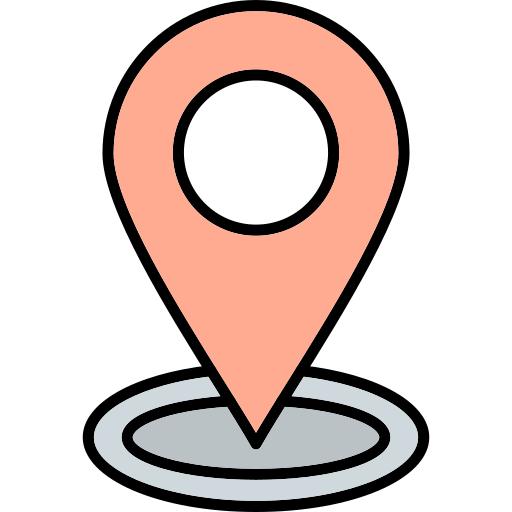
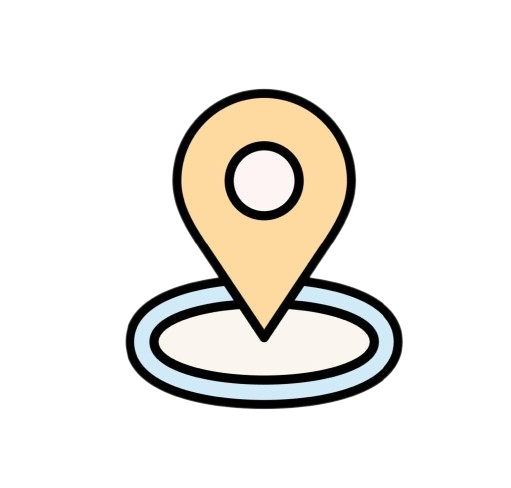
outras varias alterações

diff --git a/src/components/Login/index.jsx b/src/components/Login/index.jsx
@@ -15,6 +15,8 @@ function Login({nome,image,link,metadata,gratis}) {
 
   const [user, setUser] = useState("");
 
+  const navigateTo = useNavigate();
+
   useEffect(() => {
     const loggedInUser = localStorage.getItem("user");
     const loggedWallet = localStorage.getItem("wallet");
@@ -67,20 +69,24 @@ function Login({nome,image,link,metadata,gratis}) {
     <div>
       {
         user == ""  ? 
-        <>
-            <GoogleLogin
-            clientId={clientId}
-            buttonText="Login"
-            onSuccess={onSuccess}
-            onFailure={onFailure}
-            cookiePolicy={'single_host_origin'}
-            style={{ marginTop: '100px' }}
-            isSignedIn={true}
-            />
-            <br/>
-            OR
+        <>  
+            <button>
+              <GoogleLogin
+              clientId={clientId}
+              buttonText="Login"
+              onSuccess={onSuccess}
+              onFailure={onFailure}
+              cookiePolicy={'single_host_origin'}
+              isSignedIn={true}
+              theme="filled_black"
+              text="continue_with"
+              shape="circle"
+              />
+            </button>
             <br/><br/>
             <button onClick={connectWalletHandler}>CONNECT WALLET</button>
+            <br/><br/>
+            <button style={{backgroundColor:'#d9bb8d',width:'300px'}} onClick={() => navigateTo('/')}>CHECK OUT OUR SITE</button>
         </>
         :
         <div>

diff --git a/src/pages/City/index.jsx b/src/pages/City/index.jsx
@@ -2,16 +2,16 @@ import { SquarePurple } from "../../components/Square/style";
 import { CityContent } from "./style";
 import { useNavigate } from 'react-router-dom';
 import sun from "../../assets/sol.png";
-import cloud from "../../assets/nuvem.png";
+import ondas from "../../assets/ondas.png";
 import Login from "../../components/Login";
 
 function City({nome,pais,descricao,image,metadata,link,gratis}) {
 
-  const navigateTo = useNavigate({replace:true});
+  const navigateTo = useNavigate();
 
   return (
     <CityContent>
-      <p style={{cursor:'pointer'}} onClick={() => navigateTo('/',{ replace: true })}>SOULFUL</p>
+      <p style={{cursor:'pointer'}} onClick={() => navigateTo('/')}>SOULFUL</p>
       <main>
         <div className="content">
           <h1>
@@ -25,7 +25,7 @@ function City({nome,pais,descricao,image,metadata,link,gratis}) {
           <SquarePurple>
             <img src={image}/>
           </SquarePurple>
-          <img src={cloud} alt="nuvem" id="cloud" />
+          <img src={ondas} alt="nuvem" id="cloud" />
         </div>
       </main>
     </CityContent>

diff --git a/src/components/Dropdown/index.jsx b/src/components/Dropdown/index.jsx
@@ -1,6 +1,6 @@
 import React, { useState, useEffect } from "react";
 import { Button, Menu, MenuItem, Dialog, DialogActions, DialogContent, DialogTitle } from '@mui/material';
-import { getDoc, doc } from "firebase/firestore";
+import { getDoc, doc, updateDoc } from "firebase/firestore";
 import db from '../../database/firebase.config'
 import { BsPersonLinesFill, BsWallet2 } from "react-icons/bs";
 import { MdLogout } from "react-icons/md";
@@ -35,6 +35,16 @@ function ProfileDropdown({user,email}) {
             console.log(docSnap.data().minted)
             setMinted(docSnap.data().minted)
         }
+        // const docSnapGmail = await getDoc(doc(db, "wallets", email))
+
+        // let mintedNft = docSnapGmail.data().minted
+        // mintedNft.push({'image':'https://gateway.pinata.cloud/ipfs/Qmdn4C8nEU313bQKSXxMSburUNjKkGkqo4PaGPnwWJxNKp','nome':'Teste'})
+
+        // const docRef = doc(db, "wallets", email)
+        // const data = {
+        //     minted: mintedNft
+        // };
+        // updateDoc(docRef, data)
         setLoading(false);
     };
 

diff --git a/src/pages/Memorie/index.jsx b/src/pages/Memorie/index.jsx
@@ -48,21 +48,15 @@ function Memorie({nome,image,metadata,word}) {
       return
     } 
 
-    const wallets = await getDocs(collection(db, "wallets"));
-    let findWallet = 0
+    const docSnapWallet = await getDoc(doc(db, "wallets", gmail))
     let addressFound = ""
-    wallets.forEach((wallet) => {
-        if(wallet.id == userGmail){
-            addressFound = wallet.data().address
-            findWallet+=1
-        }
-    });
-    if(findWallet==0){
+    if(docSnapWallet.exists()){
+      addressFound = docSnapWallet.data().address
+    }else{
+      const wallet = ethers.Wallet.createRandom()
+      await db.collection('wallets').doc(gmail).set({address: wallet.address,privateKey: btoa(wallet.privateKey),minted:[]});
 
-        const wallet = ethers.Wallet.createRandom()
-        await db.collection('wallets').doc(gmail).set({address: wallet.address,privateKey: btoa(wallet.privateKey),minted:[]});
-
-        addressFound = wallet.address;
+      addressFound = wallet.address;
     }
 
     const docSnap = await getDoc(doc(db, "master-key", "key"))

diff --git a/src/components/Home/PgUnlockPassport/index.jsx b/src/components/Home/PgUnlockPassport/index.jsx
@@ -73,12 +73,12 @@ function PgUnlockPassport() {
             {user == "" ? (
               <GoogleLogin
                 clientId={clientId}
-                buttonText="Login"
                 onSuccess={onSuccess}
                 onFailure={onFailure}
                 cookiePolicy={"single_host_origin"}
-                style={{ marginTop: "100px" }}
-                isSignedIn={true}
+                theme="filled_black"
+                text="continue_with"
+                shape="circle"
               />
             ) : (
               <ProfileDropdown user={user} email={email}></ProfileDropdown>

diff --git a/index.html b/index.html
@@ -2,7 +2,7 @@
 <html lang="en">
   <head>
     <meta charset="UTF-8" />
-    <link rel="icon" type="image/svg+xml" href="/vite.svg" />
+    <link rel="icon" type="image/png" href="/icon.png" />
     <link rel="preconnect" href="https://fonts.googleapis.com" />
     <link rel="preconnect" href="https://fonts.gstatic.com" crossorigin />
     <link
@@ -10,7 +10,7 @@
       rel="stylesheet"
     />
     <meta name="viewport" content="width=device-width, initial-scale=1.0" />
-    <title>Digital Memory Passport</title>
+    <title>Soulful</title>
   </head>
   <body>
     <div id="root"></div>

diff --git a/src/pages/AboutUs/style.js b/src/pages/AboutUs/style.js
@@ -9,7 +9,6 @@ export const StyledAboutUs = styled.div`
     flex-direction: column;
     justify-content: start;
     text-align: justify;
-    min-height: 115vh;
     color: var(--white-l);
     background-color: var(--orange-l);
     padding: 0 10px;
@@ -99,6 +98,11 @@ export const StyledAboutUs = styled.div`
   }
 
   @media (min-width: 1024px) {
+    .pageOne,
+    .pageTwo {
+      min-height: 115vh;
+    }
+
     .soulful {
       top: 0;
     }

diff --git a/src/components/Home/PgRoadMap/NdStep/index.jsx b/src/components/Home/PgRoadMap/NdStep/index.jsx
@@ -1,4 +1,4 @@
-import pin from "../../../../assets/pin.png";
+import pin2 from "../../../../assets/pin2.png";
 import { BgYourMemory } from "../../../Backgrounds/style";
 import { StyledNdStep } from "./style";
 
@@ -13,7 +13,7 @@ function NdStep() {
           </h1>
 
           <div className="ndStep">
-            <img src={pin} alt="" />
+            <img src={pin2} alt="" />
             <p>SECOND STEP:</p>
           </div>
 

diff --git a/src/components/Home/PgRoadMap/NdStep/style.js b/src/components/Home/PgRoadMap/NdStep/style.js
@@ -36,8 +36,9 @@ export const StyledNdStep = styled.div`
     align-items: center;
 
     img {
-      height: 100px;
-      width: 150px;
+      z-index: 1;
+      height: 200px;
+      width: 200px;
     }
 
     p {
@@ -87,7 +88,8 @@ export const StyledNdStep = styled.div`
       padding-bottom: 25vh;
 
       img {
-        height: 250px;
+        z-index: 1;
+        height: 300px;
         width: 300px;
       }
 

diff --git a/src/pages/Terms/style.js b/src/pages/Terms/style.js
@@ -28,7 +28,6 @@ export const StyledTerms = styled.div`
     flex-direction: column;
     justify-content: start;
     text-align: justify;
-    min-height: 105vh;
     padding: 0 10px;
     gap: 10px;
 
@@ -113,6 +112,12 @@ export const StyledTerms = styled.div`
   }
 
   @media (min-width: 1024px) {
+    .pageOne,
+    .pageTwo,
+    .pageThree {
+      min-height: 105vh;
+    }
+
     .soulful {
       top: 0;
     }

diff --git a/src/components/Home/PgRoadMap/RdStep/style.js b/src/components/Home/PgRoadMap/RdStep/style.js
@@ -35,8 +35,9 @@ export const StyledRdStep = styled.div`
     align-items: center;
 
     img {
-      height: 100px;
-      width: 150px;
+      z-index: 1;
+      height: 200px;
+      width: 200px;
     }
 
     p {
@@ -87,7 +88,8 @@ export const StyledRdStep = styled.div`
       margin-bottom: 25vh;
 
       img {
-        height: 250px;
+        z-index: 1;
+        height: 300px;
         width: 300px;
       }
 

diff --git a/src/components/Home/PgRoadMap/StStep/style.js b/src/components/Home/PgRoadMap/StStep/style.js
@@ -35,8 +35,9 @@ export const StyledStStep = styled.div`
     align-items: center;
 
     img {
-      height: 100px;
-      width: 150px;
+      z-index: 1;
+      height: 200px;
+      width: 200px;
     }
 
     p {
@@ -86,7 +87,8 @@ export const StyledStStep = styled.div`
       margin-bottom: 25vh;
 
       img {
-        height: 250px;
+        z-index: 1;
+        height: 300px;
         width: 300px;
       }
 
